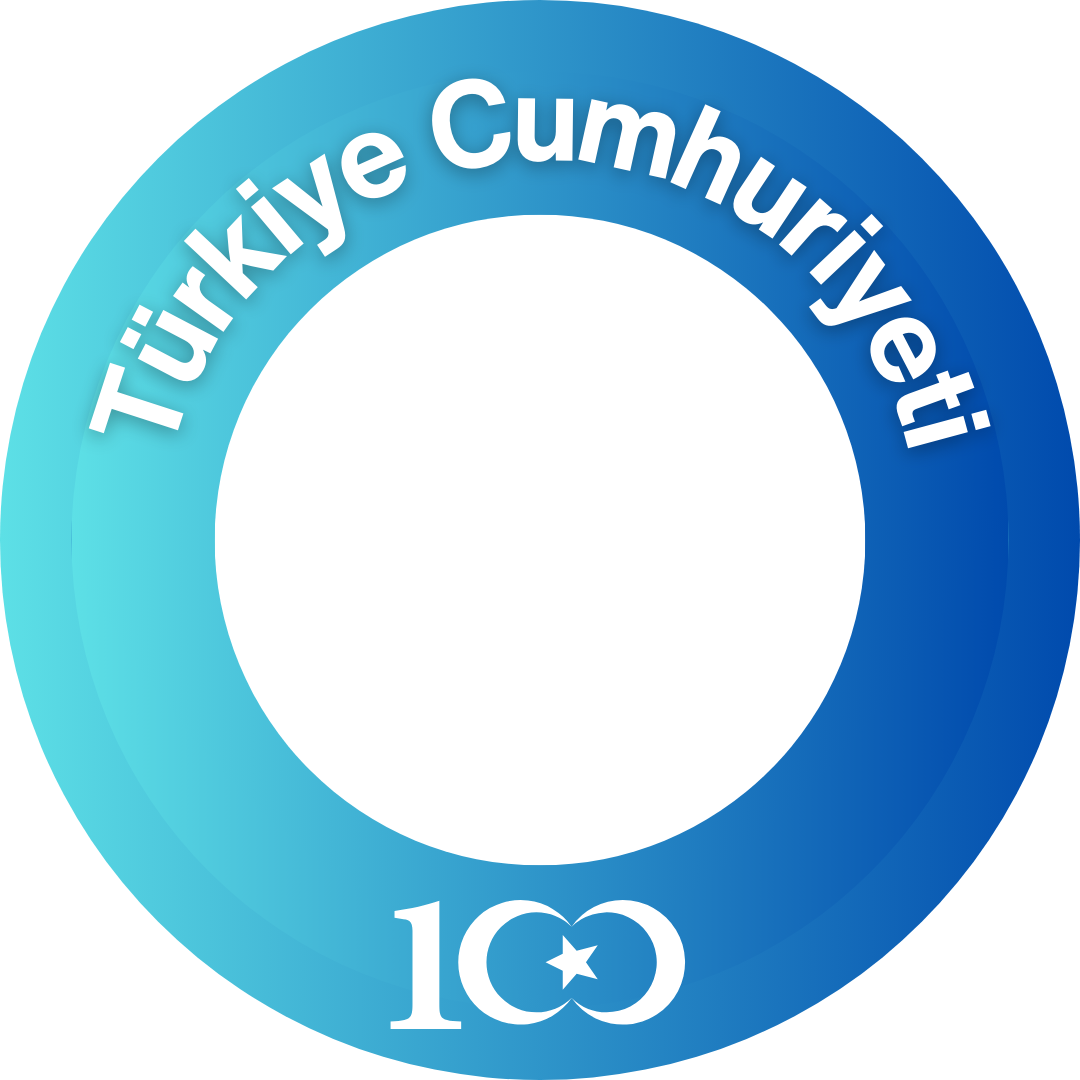
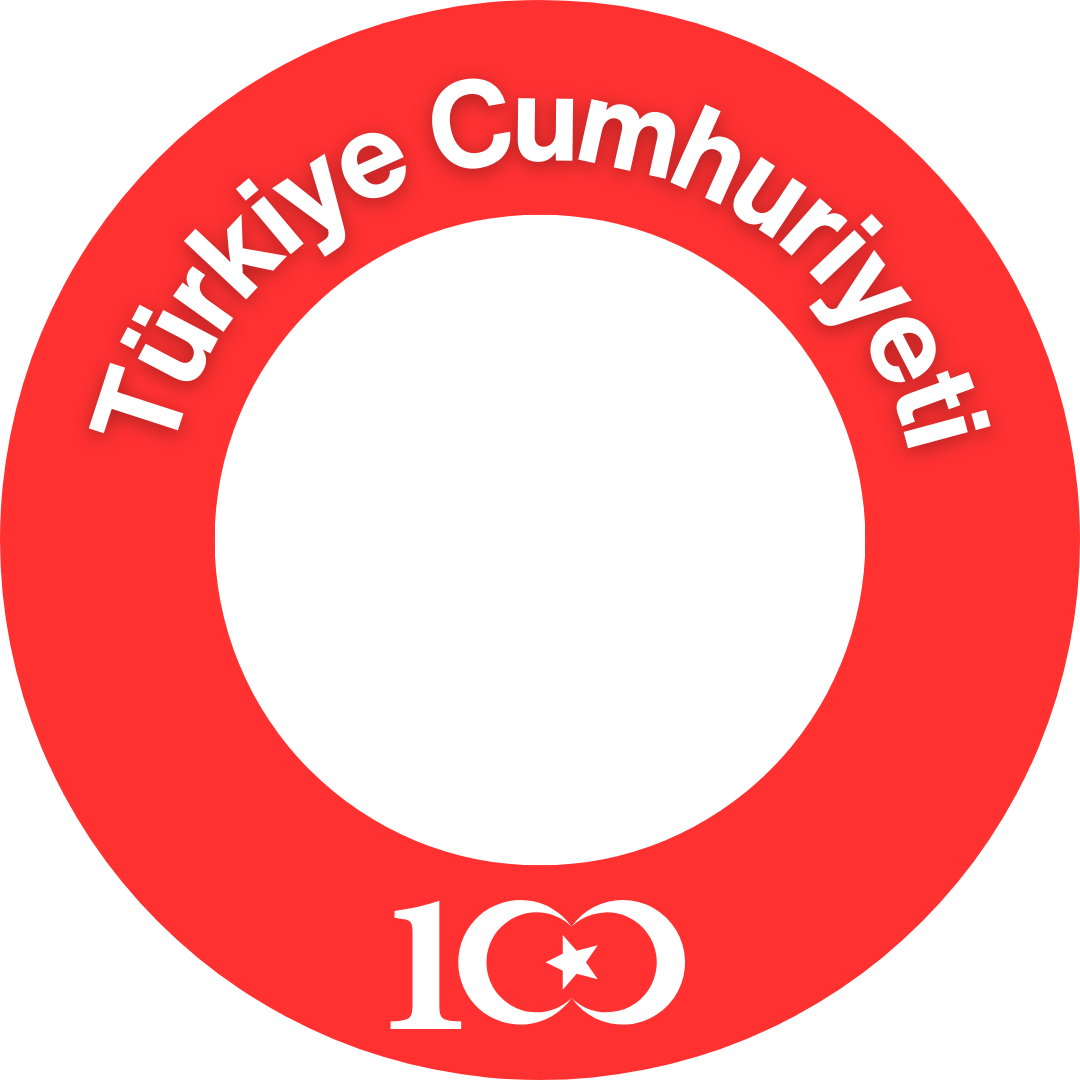
image optimization

diff --git a/index.html b/index.html
@@ -38,8 +38,7 @@
         <select id="frame-dropdown">
             <option value="t1">Mavi Tema</option>
             <option value="t2">Kırmızı & Turuncu Tema</option>
-            <option value="t3">Mavi & Tonları Tema</option>
-            <option value="t4">Kırmızı Tema</option>
+            <option value="t3">Kırmızı Tema</option>
         </select>
           
         <input type="file" id="imageUpload" accept="image/*">
@@ -63,9 +62,9 @@
         <!-- Images Section -->
         <h2>100. Yıl Resimleri</h2>
         <div class="image-gallery">
-            <img src="/images/1.png" alt="Republic Image">
-            <img src="/images/4.png" alt="Republic Image">
-            <img src="/images/2.png" alt="Republic Image">
+            <img src="/images/1.jpg" alt="Republic Image">
+            <img src="/images/4.jpg" alt="Republic Image">
+            <img src="/images/2.jpg" alt="Republic Image">
         </div>
 
         <!-- Credits Section -->
